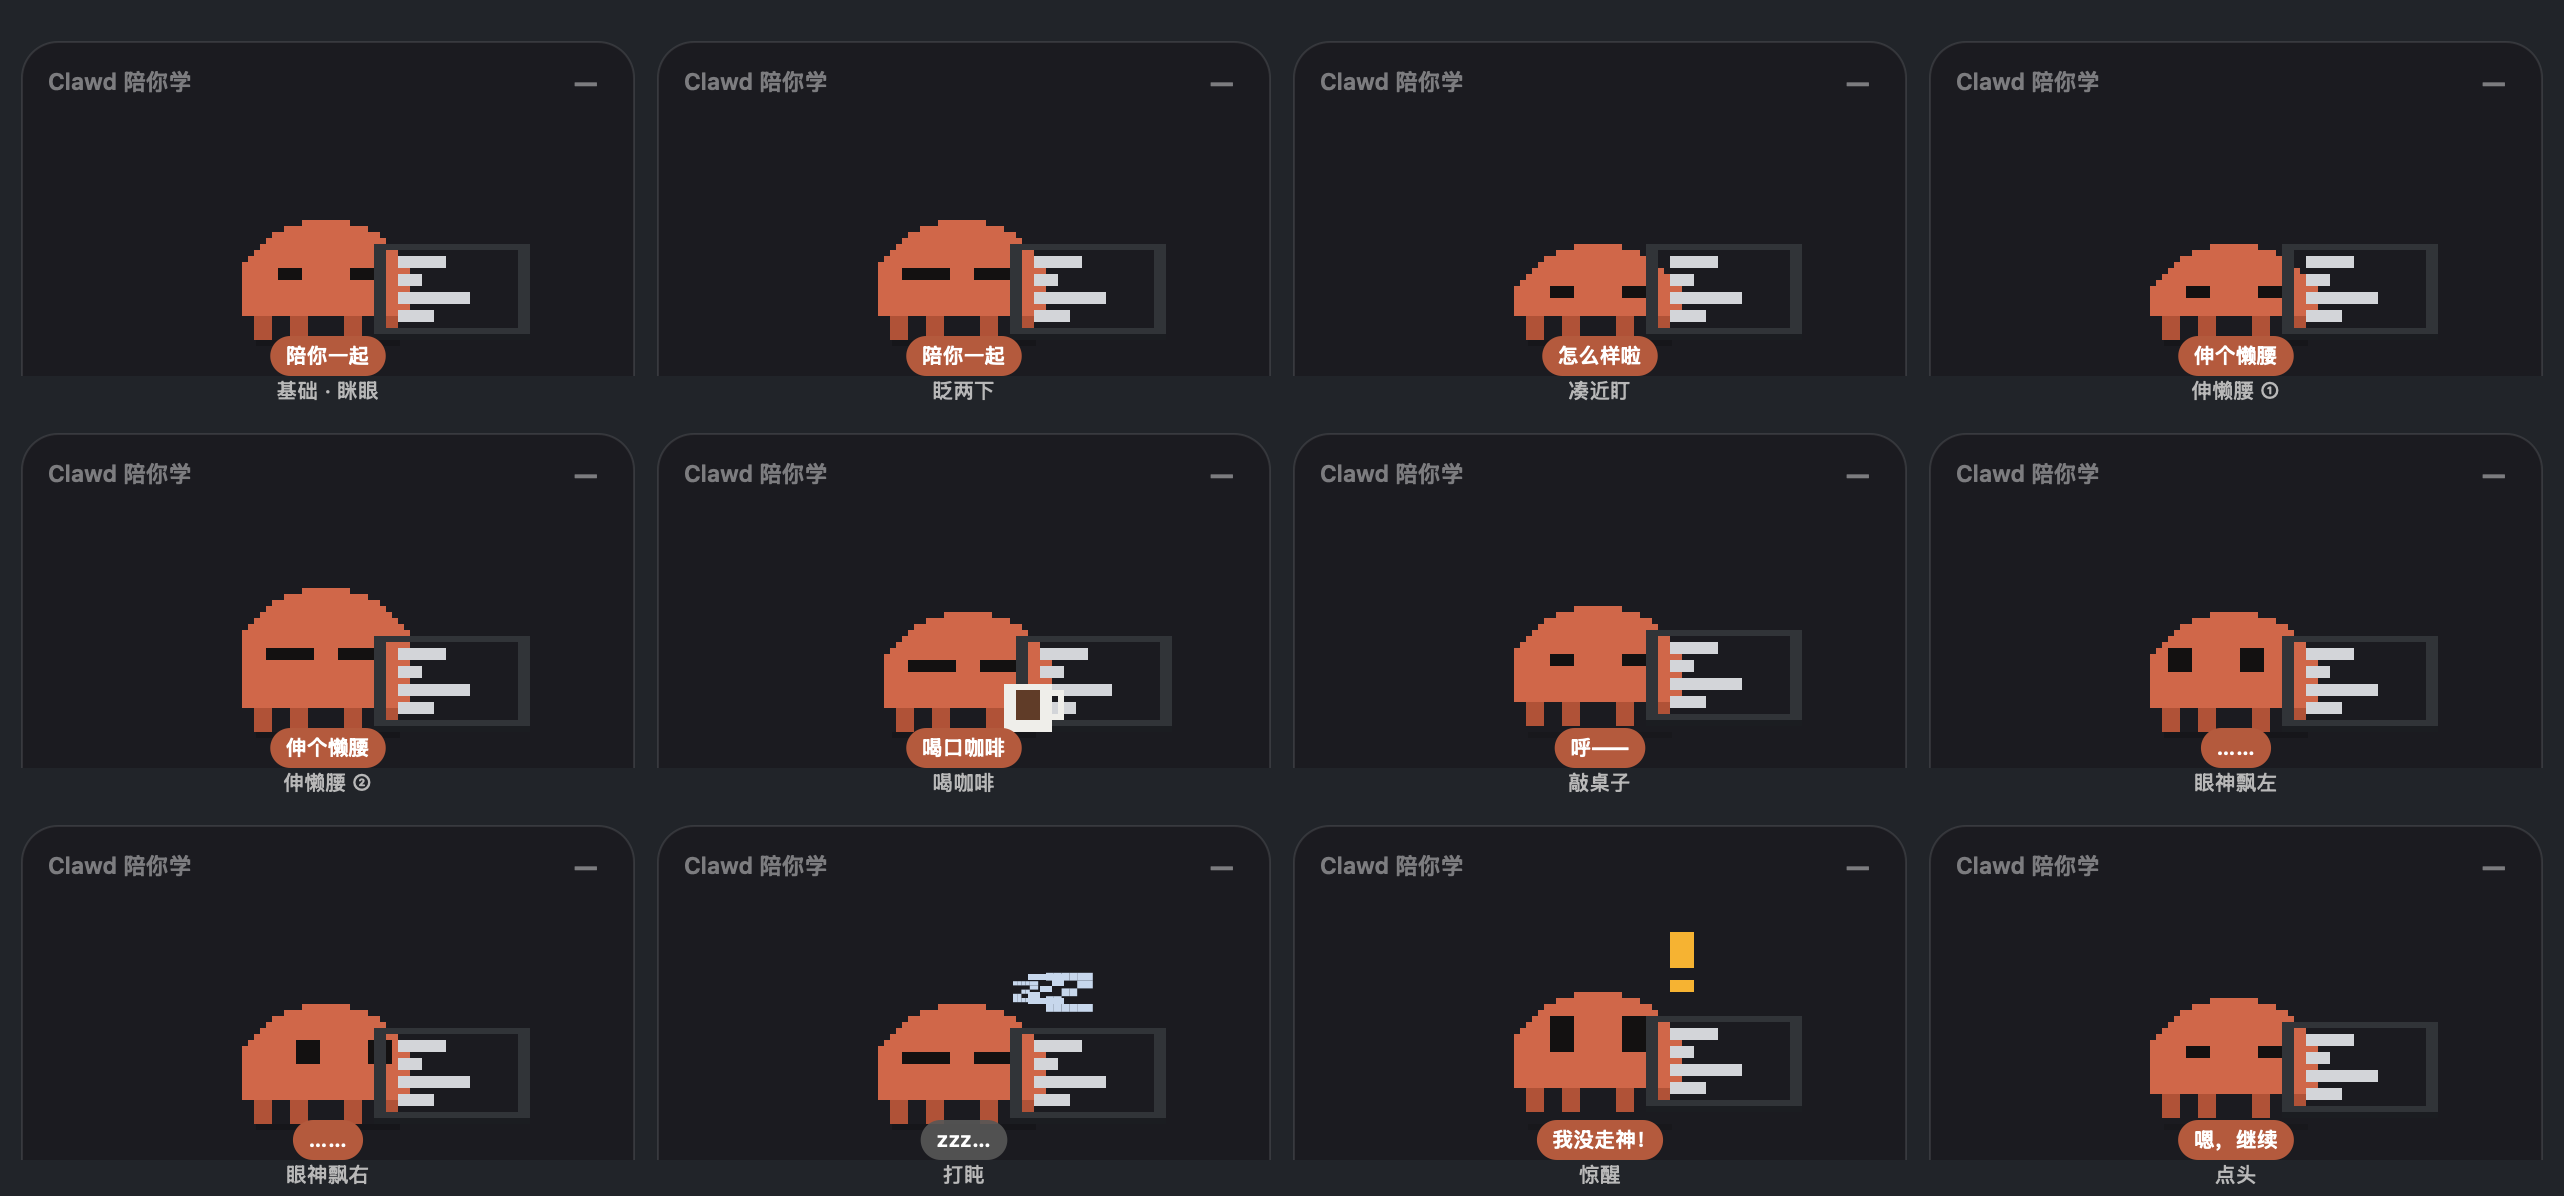
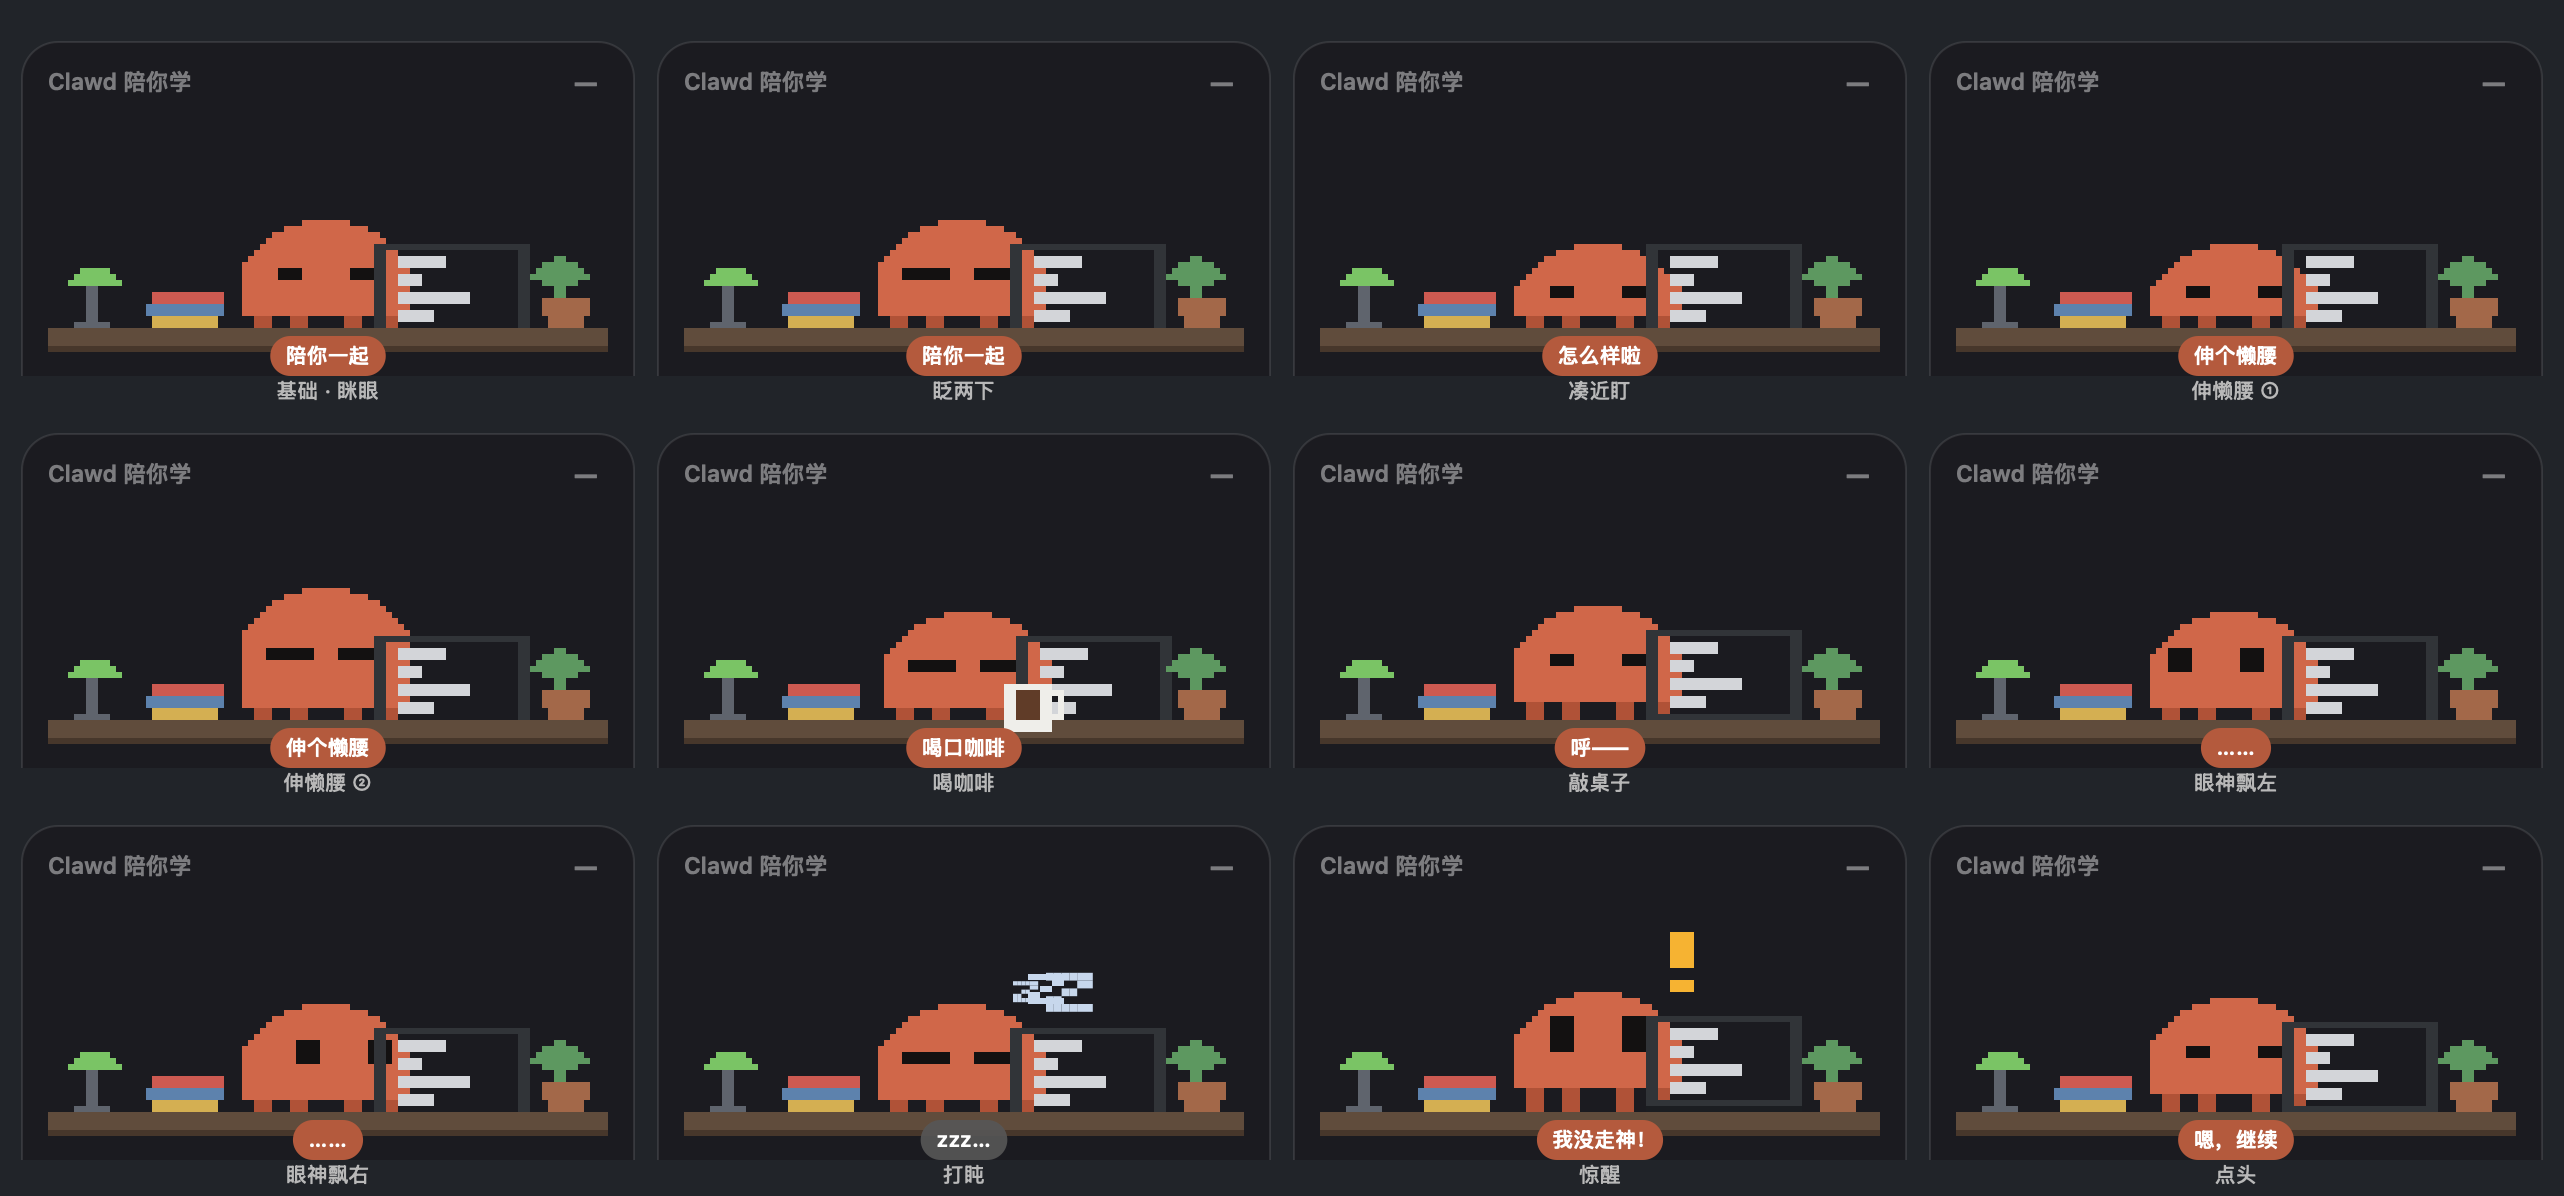
学习面板加书桌场景
面板里就一只 Clawd 杵着，太空。现在它坐在桌子后面，桌上摆台灯、
书堆和绿植，桌沿盖住腿。全部静态，一格都不会动，所以不违背
默认不做循环动效那条。clawd.sh scene off 可以只留 Clawd。

Changed region(s): [[0.0, 0.2166, 0.9984, 0.3094], [0.0, 0.5259, 0.9984, 0.6497], [0.0, 0.8662, 0.9984, 0.959]]

diff --git a/clawd/ClawdStudy.swift b/clawd/ClawdStudy.swift
@@ -25,6 +25,8 @@ let kGreen   = NSColor(srgbRed: 0.290, green: 0.720, blue: 0.450, alpha: 1)
 let kRed     = NSColor(srgbRed: 0.851, green: 0.365, blue: 0.353, alpha: 1)
 let kText    = NSColor(white: 0.95, alpha: 1)
 let kDim     = NSColor(white: 0.95, alpha: 0.45)
+let kDesk    = NSColor(srgbRed: 0.376, green: 0.298, blue: 0.235, alpha: 1)
+let kDeskEdge = NSColor(srgbRed: 0.278, green: 0.216, blue: 0.169, alpha: 1)
 
 // MARK: - Drawing primitives
 
@@ -303,6 +305,14 @@ struct Session: Codable {
     var remaining: Int { Int(endsAt.timeIntervalSinceNow.rounded(.up)) }
     var elapsedSec: Int { max(0, Int(Date().timeIntervalSince(startedAt))) }
     var isUp: Bool { remaining <= 0 }
+}
+
+/// Desk scenery on/off. Static art only — it adds nothing that moves.
+enum Scene {
+    static var enabled: Bool {
+        !FileManager.default.fileExists(
+            atPath: NSString(string: "~/.claude/clawd/no-scene").expandingTildeInPath)
+    }
 }
 
 /// What Clawd holds while you are in a sitting.
@@ -877,14 +887,17 @@ final class ClawdView: NSView {
         }
 
         let buff = store?.isBuff ?? false
+        let scene = !collapsed && Scene.enabled
         let body = ClawdSprites.body(face, pose: pose, buff: buff)
         let sz = body.size(px: px)
         let x = cx - sz.width / 2 + shiftX * px
         let y = baseY + lift * px
 
-        c.setFillColor(NSColor(white: 0, alpha: lift > 0 ? 0.12 : 0.20).cgColor)
-        c.fill(CGRect(x: cx - sz.width / 2 + px * 2, y: baseY - px,
-                      width: sz.width - px * 4, height: px))
+        if !scene {
+            c.setFillColor(NSColor(white: 0, alpha: lift > 0 ? 0.12 : 0.20).cgColor)
+            c.fill(CGRect(x: cx - sz.width / 2 + px * 2, y: baseY - px,
+                          width: sz.width - px * 4, height: px))
+        }
 
         body.draw(c, at: CGPoint(x: x, y: y), px: px)
 
@@ -901,6 +914,22 @@ final class ClawdView: NSView {
             case .none:
                 break
             }
+        }
+
+        // The desk goes over Clawd's legs, which reads as sitting at it.
+        var deskTop = baseY
+        if scene {
+            let left = pad, right = bounds.width - pad
+            deskTop = baseY + px * 2
+            c.setFillColor(kDesk.cgColor)
+            c.fill(CGRect(x: left, y: deskTop - px * 3, width: right - left, height: px * 3))
+            c.setFillColor(kDeskEdge.cgColor)
+            c.fill(CGRect(x: left, y: deskTop - px * 4, width: right - left, height: px))
+
+            ClawdSprites.lamp.draw(c, at: CGPoint(x: left + px * 2, y: deskTop), px: px)
+            ClawdSprites.books.draw(c, at: CGPoint(x: left + px * 15, y: deskTop), px: px)
+            ClawdSprites.plant.draw(c,
+                at: CGPoint(x: right - CGFloat(ClawdSprites.plant.w) * px - px, y: deskTop), px: px)
         }
 
         // Earned biceps last, so the prop cannot cover them.

diff --git a/shared/Clawd.swift b/shared/Clawd.swift
@@ -79,7 +79,13 @@ enum ClawdSprites {
         "W": NSColor(srgbRed: 0.827, green: 0.835, blue: 0.851, alpha: 1),   // text on screen
         "w": NSColor(srgbRed: 0.722, green: 0.549, blue: 0.353, alpha: 1),   // whip lash
         "h": NSColor(srgbRed: 0.361, green: 0.227, blue: 0.145, alpha: 1),   // whip handle
-        "s": NSColor(srgbRed: 0.078, green: 0.086, blue: 0.106, alpha: 1)    // monitor screen
+        "s": NSColor(srgbRed: 0.078, green: 0.086, blue: 0.106, alpha: 1),   // monitor screen
+        "N": NSColor(srgbRed: 0.373, green: 0.392, blue: 0.427, alpha: 1),   // lamp stem
+        "P": NSColor(srgbRed: 0.804, green: 0.353, blue: 0.318, alpha: 1),   // book spines
+        "Q": NSColor(srgbRed: 0.365, green: 0.510, blue: 0.678, alpha: 1),
+        "R": NSColor(srgbRed: 0.831, green: 0.686, blue: 0.322, alpha: 1),
+        "V": NSColor(srgbRed: 0.365, green: 0.596, blue: 0.376, alpha: 1),   // leaves
+        "T": NSColor(srgbRed: 0.639, green: 0.408, blue: 0.286, alpha: 1)    // terracotta pot
     ]
 
     /// Buff form: brighter body, darker legs — reads sharper at the same size.
@@ -258,6 +264,46 @@ enum ClawdSprites {
         "hhhhww..................",
         "hhhh....................",
         "hhhh...................."
+    ], map: palette)
+
+    /// Desk scenery, so the study panel is not one plushie on an empty field.
+    /// All static — nothing here ever animates.
+    static let lamp = Sprite(rows: [
+        "...GGGGG..",
+        "..GGGGGGG.",
+        ".GGGGGGGGG",
+        "....NN....",
+        "....NN....",
+        "....NN....",
+        "....NN....",
+        "....NN....",
+        "....NN....",
+        "..NNNNNN.."
+    ], map: palette)
+
+    static let books = Sprite(rows: [
+        "................",
+        "..PPPPPPPPPPPP..",
+        "..PPPPPPPPPPPP..",
+        ".QQQQQQQQQQQQQ..",
+        ".QQQQQQQQQQQQQ..",
+        "..RRRRRRRRRRR...",
+        "..RRRRRRRRRRR..."
+    ], map: palette)
+
+    static let plant = Sprite(rows: [
+        "....VV......",
+        "..VVVVVV....",
+        ".VVVVVVVV...",
+        "VVVVVVVVVV..",
+        "..VVVVVV....",
+        "....VV......",
+        "....VV......",
+        "..TTTTTTTT..",
+        "..TTTTTTTT..",
+        "..TTTTTTTT..",
+        "...TTTTTT...",
+        "...TTTTTT..."
     ], map: palette)
 
     /// 10 x 10 gold twinkle.

diff --git a/README.md b/README.md
@@ -19,6 +19,8 @@
 
 **专注计时**：点任务右边 ▶ 选时长（15/25/45/60，或直接输入分钟数）。计时期间「休息」按钮是锁着的。时间到了会响一声，然后给你两个选择：休息一下，或者再来一段。
 
+**书桌场景**：Clawd 坐在一张桌子后面，桌上有台灯、一摞书和一盆绿植。全是静态的，不会动，纯粹是让面板不那么空。不想要就 `clawd.sh scene off`。
+
 计时期间 Clawd 会在旁边拿点东西：默认抱着电脑陪你一起写（body doubling 的做法），想要凶一点的可以换成皮鞭：`clawd.sh prop whip`。
 
 **练出肌肉。** 一天累计专注满 2 小时，Clawd 会变成强壮形态：颜色更亮更清晰，两侧长出肱二头肌。累计的，几个短段拼起来也算数。
@@ -77,6 +79,7 @@ launchctl load ~/Library/LaunchAgents/com.clawd.study.plist
 clawd.sh start | stop | restart | toggle
 clawd.sh motion [on|off]     动画开关（同时管两只）
 clawd.sh prop [laptop|whip|none]  伴学时 Clawd 手上拿什么
+clawd.sh scene [on|off]      书桌场景（台灯/书堆/绿植）
 pet.sh linger [秒]           挂件那条"干完了"停留多久（默认 60）
 clawd.sh find                面板找不到时把它叫回来（展开 + 回默认位置 + 置顶）
 clawd.sh summary             打印每日汇总
